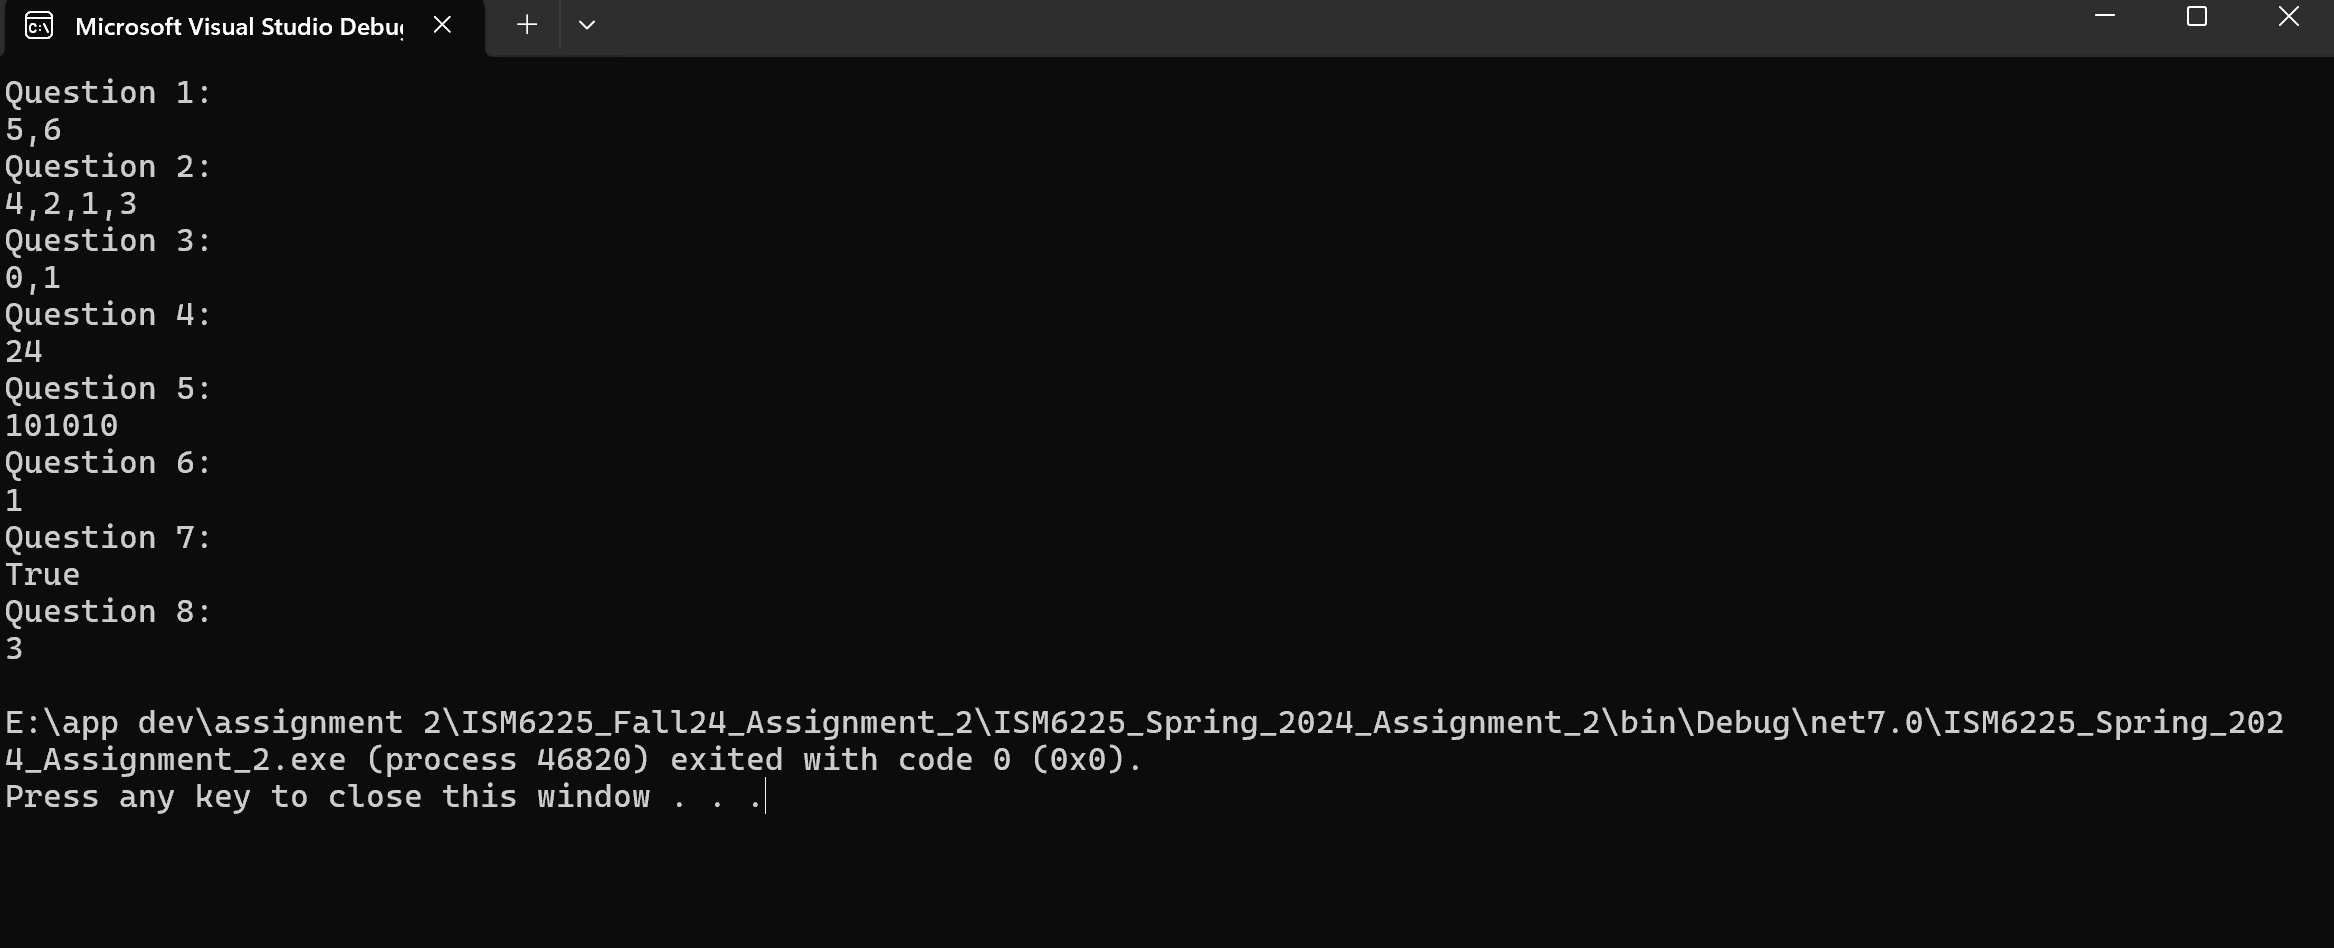
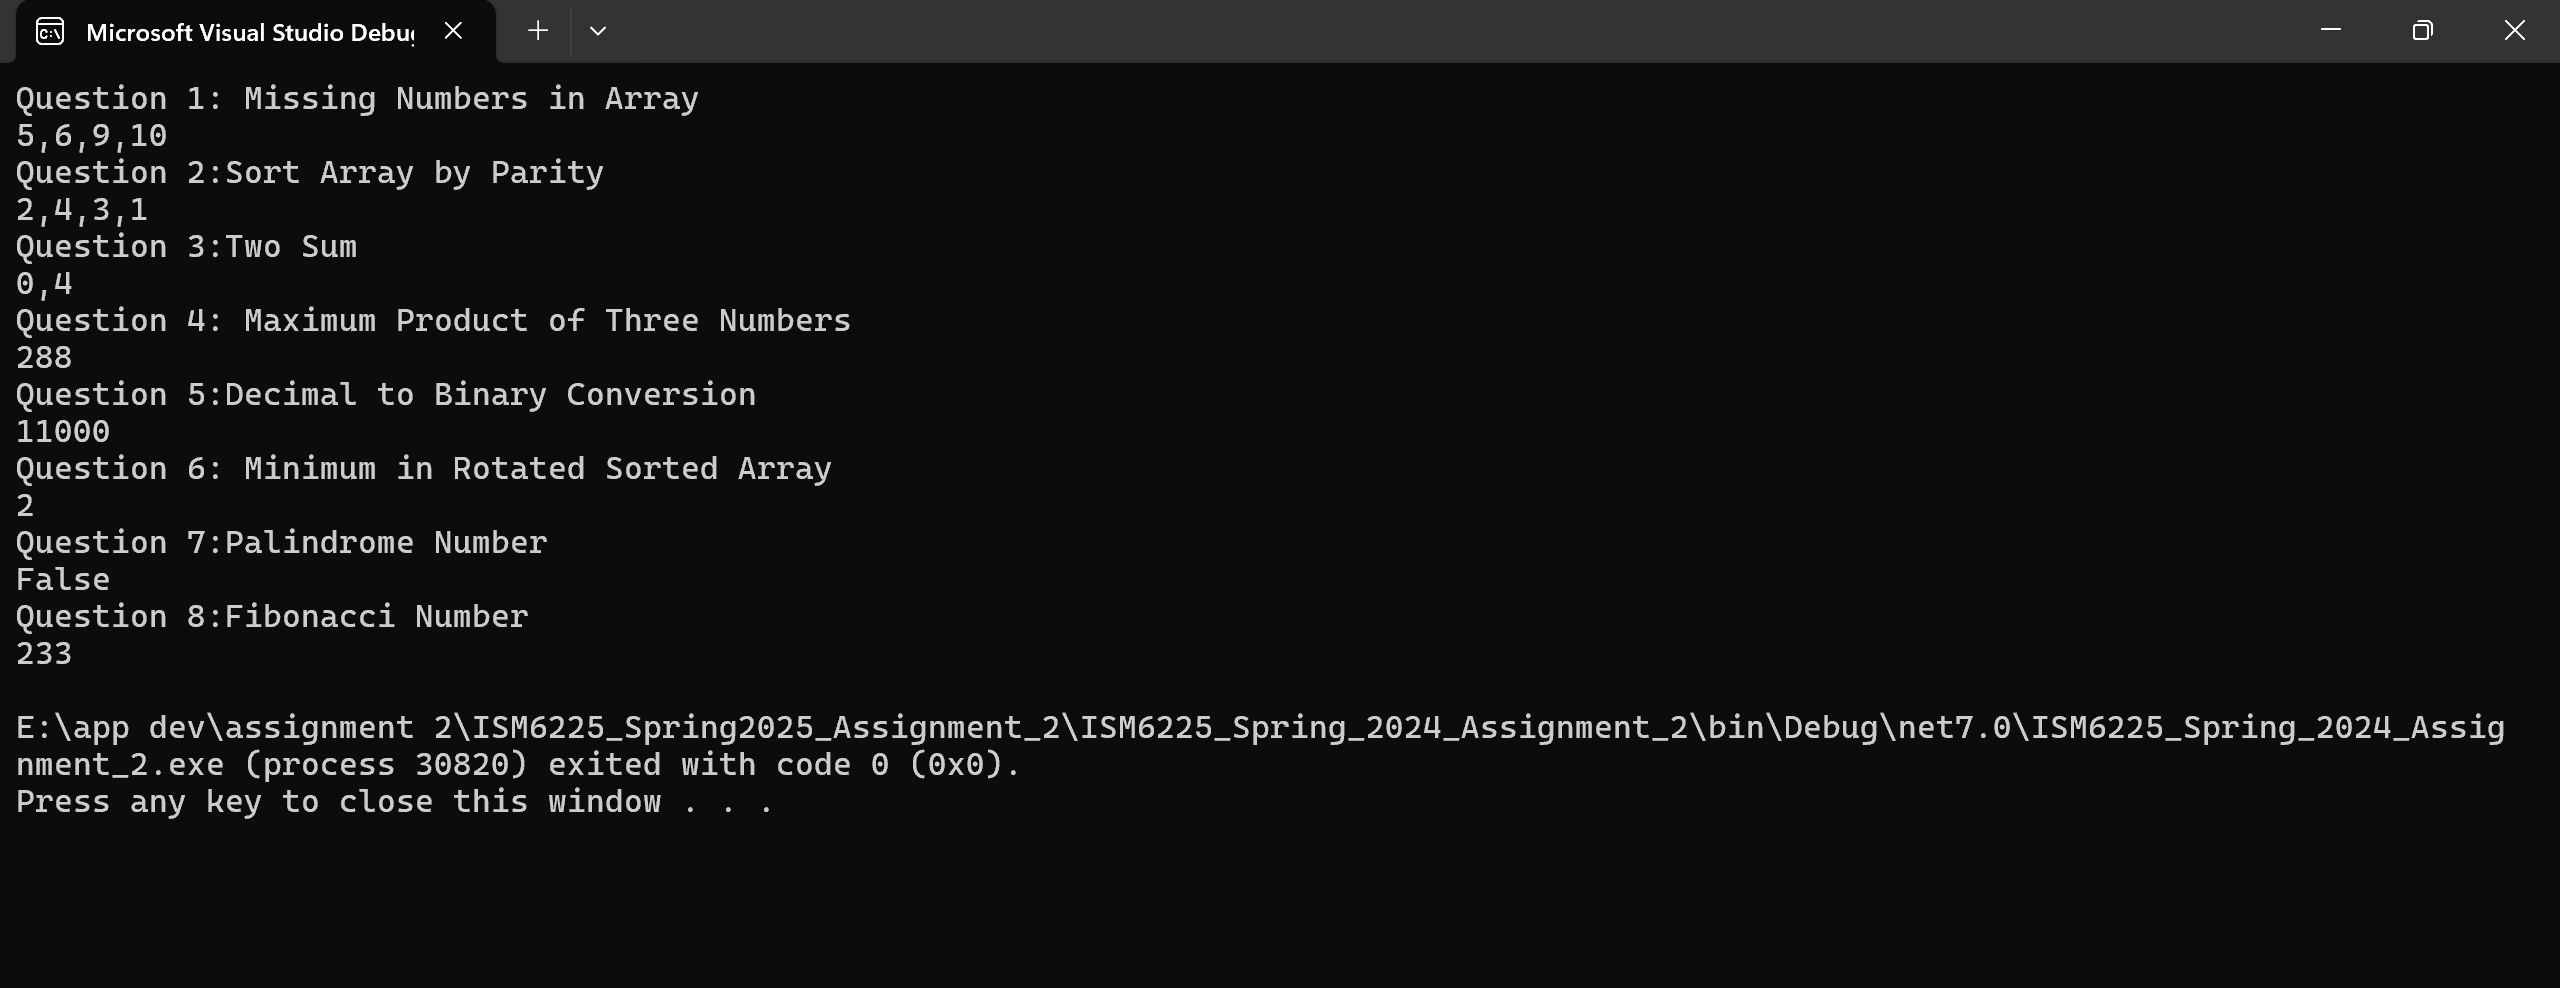
Completed all 8 questions, added output screenshot and Prompt.docx

diff --git a/ISM6225_Spring_2024_Assignment_2/Program.cs b/ISM6225_Spring_2024_Assignment_2/Program.cs
@@ -8,51 +8,51 @@ namespace Assignment_2
         static void Main(string[] args)
         {
             // Question 1: Find Missing Numbers in Array
-            Console.WriteLine("Question 1:");
-            int[] nums1 = { 4, 3, 2, 7, 8, 2, 3, 1 };
+            Console.WriteLine("Question 1: Missing Numbers in Array");
+            int[] nums1 = { 4, 3, 2, 7, 8, 2, 3, 1,1,4 };
             IList<int> missingNumbers = FindMissingNumbers(nums1);
             Console.WriteLine(string.Join(",", missingNumbers));
 
             // Question 2: Sort Array by Parity
-            Console.WriteLine("Question 2:");
-            int[] nums2 = { 3, 1, 2, 4 };
+            Console.WriteLine("Question 2:Sort Array by Parity");
+            int[] nums2 = { 4,3,2,1};
             int[] sortedArray = SortArrayByParity(nums2);
             Console.WriteLine(string.Join(",", sortedArray));
 
             // Question 3: Two Sum
-            Console.WriteLine("Question 3:");
-            int[] nums3 = { 2, 7, 11, 15 };
-            int target = 9;
+            Console.WriteLine("Question 3:Two Sum");
+            int[] nums3 = { 2, 7,11, 15, 4};
+            int target = 6;
             int[] indices = TwoSum(nums3, target);
             Console.WriteLine(string.Join(",", indices));
 
             // Question 4: Find Maximum Product of Three Numbers
-            Console.WriteLine("Question 4:");
-            int[] nums4 = { 1, 2, 3, 4 };
+            Console.WriteLine("Question 4: Maximum Product of Three Numbers");
+            int[] nums4 = { 9,1, 2, 3, 4 ,8};
             int maxProduct = MaximumProduct(nums4);
             Console.WriteLine(maxProduct);
 
             // Question 5: Decimal to Binary Conversion
-            Console.WriteLine("Question 5:");
-            int decimalNumber = 42;
+            Console.WriteLine("Question 5:Decimal to Binary Conversion");
+            int decimalNumber = 24;
             string binary = DecimalToBinary(decimalNumber);
             Console.WriteLine(binary);
 
             // Question 6: Find Minimum in Rotated Sorted Array
-            Console.WriteLine("Question 6:");
-            int[] nums5 = { 3, 4, 5, 1, 2 };
+            Console.WriteLine("Question 6: Minimum in Rotated Sorted Array");
+            int[] nums5 = { 3, 4, 5,2 };
             int minElement = FindMin(nums5);
             Console.WriteLine(minElement);
 
             // Question 7: Palindrome Number
-            Console.WriteLine("Question 7:");
-            int palindromeNumber = 121;
+            Console.WriteLine("Question 7:Palindrome Number");
+            int palindromeNumber = 1212;
             bool isPalindrome = IsPalindrome(palindromeNumber);
             Console.WriteLine(isPalindrome);
 
             // Question 8: Fibonacci Number
-            Console.WriteLine("Question 8:");
-            int n = 4;
+            Console.WriteLine("Question 8:Fibonacci Number");
+            int n = 13;
             int fibonacciNumber = Fibonacci(n);
             Console.WriteLine(fibonacciNumber);
         }
@@ -65,21 +65,13 @@ namespace Assignment_2
             try
             {
                 // Write your code here
-                var result = new List<int>();
-                for (int i = 0; i < nums.Length; i++)
-                {
-                    int index = Math.Abs(nums[i]) - 1;
-                    if (nums[index] > 0)
-                    {
-                        nums[index] = -nums[index];
-                    }
-                }
+                
+                foreach (var num in nums)
+                    nums[Math.Abs(num) - 1] = -Math.Abs(nums[Math.Abs(num) - 1]);
 
+                List<int> result = new();
                 for (int i = 0; i < nums.Length; i++)
-                {
-                    if (nums[i] > 0)
-                        result.Add(i + 1);
-                }
+                    if (nums[i] > 0) result.Add(i + 1);
 
                 return result;
 
@@ -97,22 +89,14 @@ namespace Assignment_2
             try
             {
                 // Write your code here
-                int left = 0, right = nums.Length - 1;
-
-                while (left < right)
-                {
-                    if (nums[left] % 2 > nums[right] % 2)
-                    {
-                        int temp = nums[left];
-                        nums[left] = nums[right];
-                        nums[right] = temp;
-                    }
-
-                    if (nums[left] % 2 == 0) left++;
-                    if (nums[right] % 2 == 1) right--;
-                }
-
-                return nums;
+                
+                    // Initialize a list to store the result
+                    List<int> result = new();
+                    foreach (int n in nums)
+                        if (n % 2 == 0) result.Insert(0, n); else result.Add(n);
+                // Convert the list to an array and return it
+                return result.ToArray();
+                
             }
             catch (Exception)
             {
@@ -127,22 +111,24 @@ namespace Assignment_2
             try
             {
                 // Write your code here
-                Dictionary<int, int> map = new Dictionary<int, int>();
+                // Dictionary to store number and its index
+                Dictionary<int, int> map = new();
 
                 for (int i = 0; i < nums.Length; i++)
                 {
                     int complement = target - nums[i];
+
+                    // Check if the complement is already in the map
                     if (map.ContainsKey(complement))
                     {
                         return new int[] { map[complement], i };
                     }
-                    if (!map.ContainsKey(nums[i]))
-                    {
-                        map[nums[i]] = i;
-                    }
-                }
 
-                return new int[] { };
+                    // Add current number and index to the map
+                    if (!map.ContainsKey(nums[i]))
+                        map[nums[i]] = i;
+                }
+                  return new int[0];
             }
             catch (Exception)
             {
@@ -157,11 +143,11 @@ namespace Assignment_2
             try
             {
                 // Write your code here
-                Array.Sort(nums);
-                int n = nums.Length;
-
-                return Math.Max(nums[n - 1] * nums[n - 2] * nums[n - 3],
-                                nums[0] * nums[1] * nums[n - 1]);
+                {
+                    Array.Sort(nums);
+                // Max product can be either from the three largest or two smallest (negatives) and the largest
+                    return Math.Max(nums[^1] * nums[^2] * nums[^3], nums[0] * nums[1] * nums[^1]);
+                }
             }
             catch (Exception)
             {
@@ -176,17 +162,8 @@ namespace Assignment_2
             try
             {
                 // Write your code here
-                if (decimalNumber == 0)
-                    return "0";
-
-                string binary = "";
-                while (decimalNumber > 0)
-                {
-                    binary = (decimalNumber % 2) + binary;
-                    decimalNumber /= 2;
-                }
-
-                return binary;
+                // Convert decimal to binary using base 2
+                return Convert.ToString(decimalNumber, 2); 
             }
             catch (Exception)
             {
@@ -203,6 +180,7 @@ namespace Assignment_2
                 // Write your code here
                 int left = 0, right = nums.Length - 1;
 
+                // Binary search to find the minimum element in the rotated sorted array
                 while (left < right)
                 {
                     int mid = left + (right - left) / 2;
@@ -231,17 +209,11 @@ namespace Assignment_2
             try
             {
                 // Write your code here
-                if (x < 0 || (x % 10 == 0 && x != 0))
-                    return false;
+                // Negative numbers are not palindromes
+                if (x < 0) return false;
 
-                int reversed = 0;
-                while (x > reversed)
-                {
-                    reversed = reversed * 10 + x % 10;
-                    x /= 10;
-                }
-
-                return x == reversed || x == reversed / 10;
+                // Convert the number to string, reverse it, and compare
+                 return x.ToString() == new string(x.ToString().Reverse().ToArray());   
             }
             catch (Exception)
             {
@@ -257,20 +229,17 @@ namespace Assignment_2
             {
                 // Write your code here
 
-                if (n == 0)
-                    return 0;
-                if (n == 1)
-                    return 1;
+                if (n <= 1) 
+                    return n; 
 
-                int a = 0, b = 1, c = 0;
+                int a = 0, b = 1;
                 for (int i = 2; i <= n; i++)
                 {
-                    c = a + b;
-                    a = b;
-                    b = c;
+                    int temp = a + b; // Next Fibonacci number
+                    a = b;            // Shift a to b
+                    b = temp;         // Update b to the new value
                 }
-
-                return c;
+                return b; // b holds the nth Fibonacci number
             }
             catch (Exception)
             {
